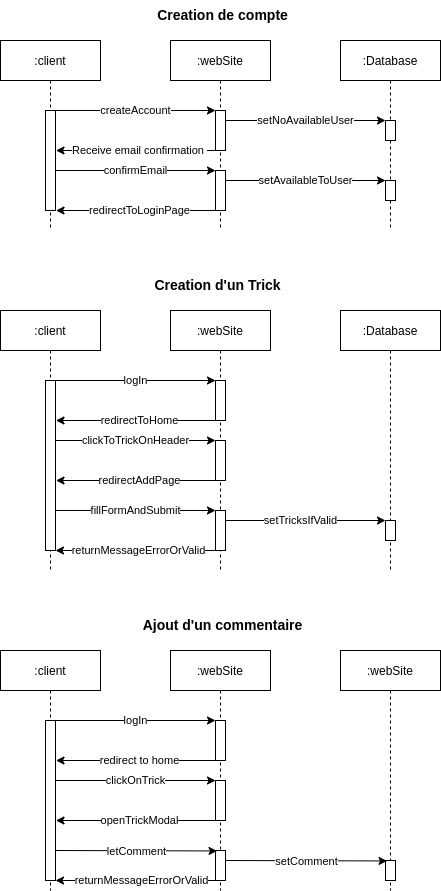
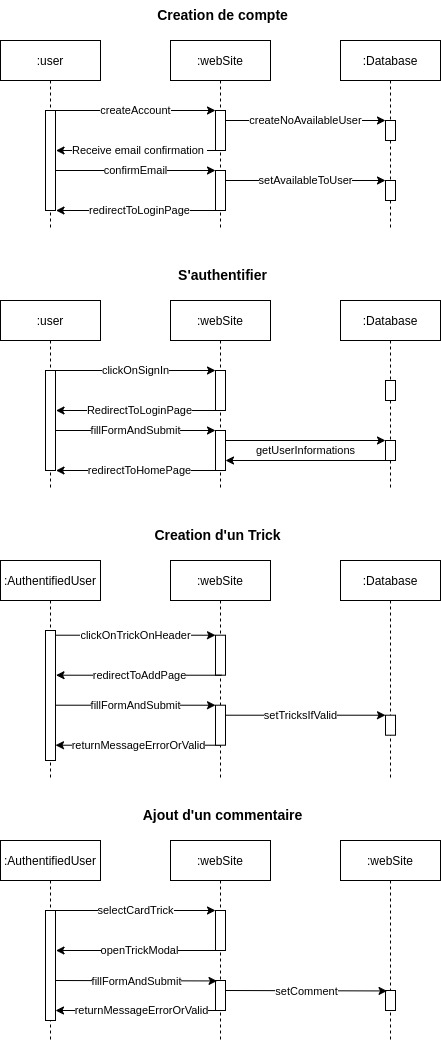
:white_check_mark: Retour : Soutenance reconduite

diff --git a/src/Controller/TrickController.php b/src/Controller/TrickController.php
@@ -9,6 +9,7 @@ use App\Form\Type\CommentType;
 use App\Form\Type\TricksType;
 use App\Repository\TricksRepository;
 use Doctrine\ORM\NonUniqueResultException;
+use Sensio\Bundle\FrameworkExtraBundle\Configuration\IsGranted;
 use Symfony\Bundle\FrameworkBundle\Controller\AbstractController;
 use Symfony\Component\HttpFoundation\Request;
 use Symfony\Component\HttpFoundation\Response;
@@ -49,14 +50,10 @@ class TrickController extends AbstractController
         return $this->redirectToRoute('home');
     }
 
-    /**
-     * @throws NonUniqueResultException
-     */
+    #[IsGranted('IS_AUTHENTICATED')]
     #[Route(path: '/trick-manager/{slug}', name: 'add_tricks', defaults: ["slug" => null], methods: ['GET', 'POST'])]
     public function trickManager(?Trick $trick): Response
     {
-        $this->denyAccessUnlessGranted('IS_AUTHENTICATED');
-
         $param = [];
         if ($trick instanceof Trick){
             $form = $this->createForm(TricksType::class, $trick);
@@ -106,22 +103,20 @@ class TrickController extends AbstractController
         return $this->redirectToRoute('home', []);
     }
 
+    #[IsGranted('IS_AUTHENTICATED')]
     #[Route(path: '/trick/delete/{slug}', name: 'delete_trick', methods: ['GET'])]
     public function deleteTrick(Trick $trick, TricksRepository $tricksRepository): Response
     {
-        $this->denyAccessUnlessGranted('IS_AUTHENTICATED');
-
         $tricksRepository->remove($trick, true);
         $this->addFlash('success', 'Le trick a bien été supprimé.');
 
         return $this->redirectToRoute('home', []);
     }
 
+    #[IsGranted('IS_AUTHENTICATED')]
     #[Route(path: '/form/update/{id}', name: 'trick_form_fetch', defaults: ["id" => null], methods: ['POST'])]
     public function trickFormFetch(Request $request, TricksHandler $tricksHandler, TricksRepository $tricksRepository, ?int $id): ?Response
     {
-        $this->denyAccessUnlessGranted('IS_AUTHENTICATED');
-
         $trick = $id ? $tricksRepository->find($id) : new Trick();
         $form = $this->createForm(TricksType::class, $trick);
 

diff --git a/src/Controller/CommentController.php b/src/Controller/CommentController.php
@@ -8,6 +8,7 @@ use App\Form\Handler\CommentsHandler;
 use App\Form\Type\CommentType;
 use App\Repository\CommentsRepository;
 use App\Repository\TricksRepository;
+use Sensio\Bundle\FrameworkExtraBundle\Configuration\IsGranted;
 use Symfony\Component\HttpFoundation\Request;
 use Symfony\Bundle\FrameworkBundle\Controller\AbstractController;
 use Symfony\Component\HttpFoundation\Response;
@@ -16,11 +17,10 @@ use Symfony\Component\Routing\Annotation\Route;
 #[Route('/comments', name: 'comments_')]
 class CommentController extends AbstractController
 {
+    #[IsGranted('IS_AUTHENTICATED')]
     #[Route('/form/{id}', name: 'form', methods: ['POST'])]
     public function addComment(Request $request, int $id, CommentsHandler $commentsHandler): Response
     {
-        $this->denyAccessUnlessGranted('IS_AUTHENTICATED');
-
         $comment = new Comment();
         $form = $this->createForm(CommentType::class, $comment);
 
